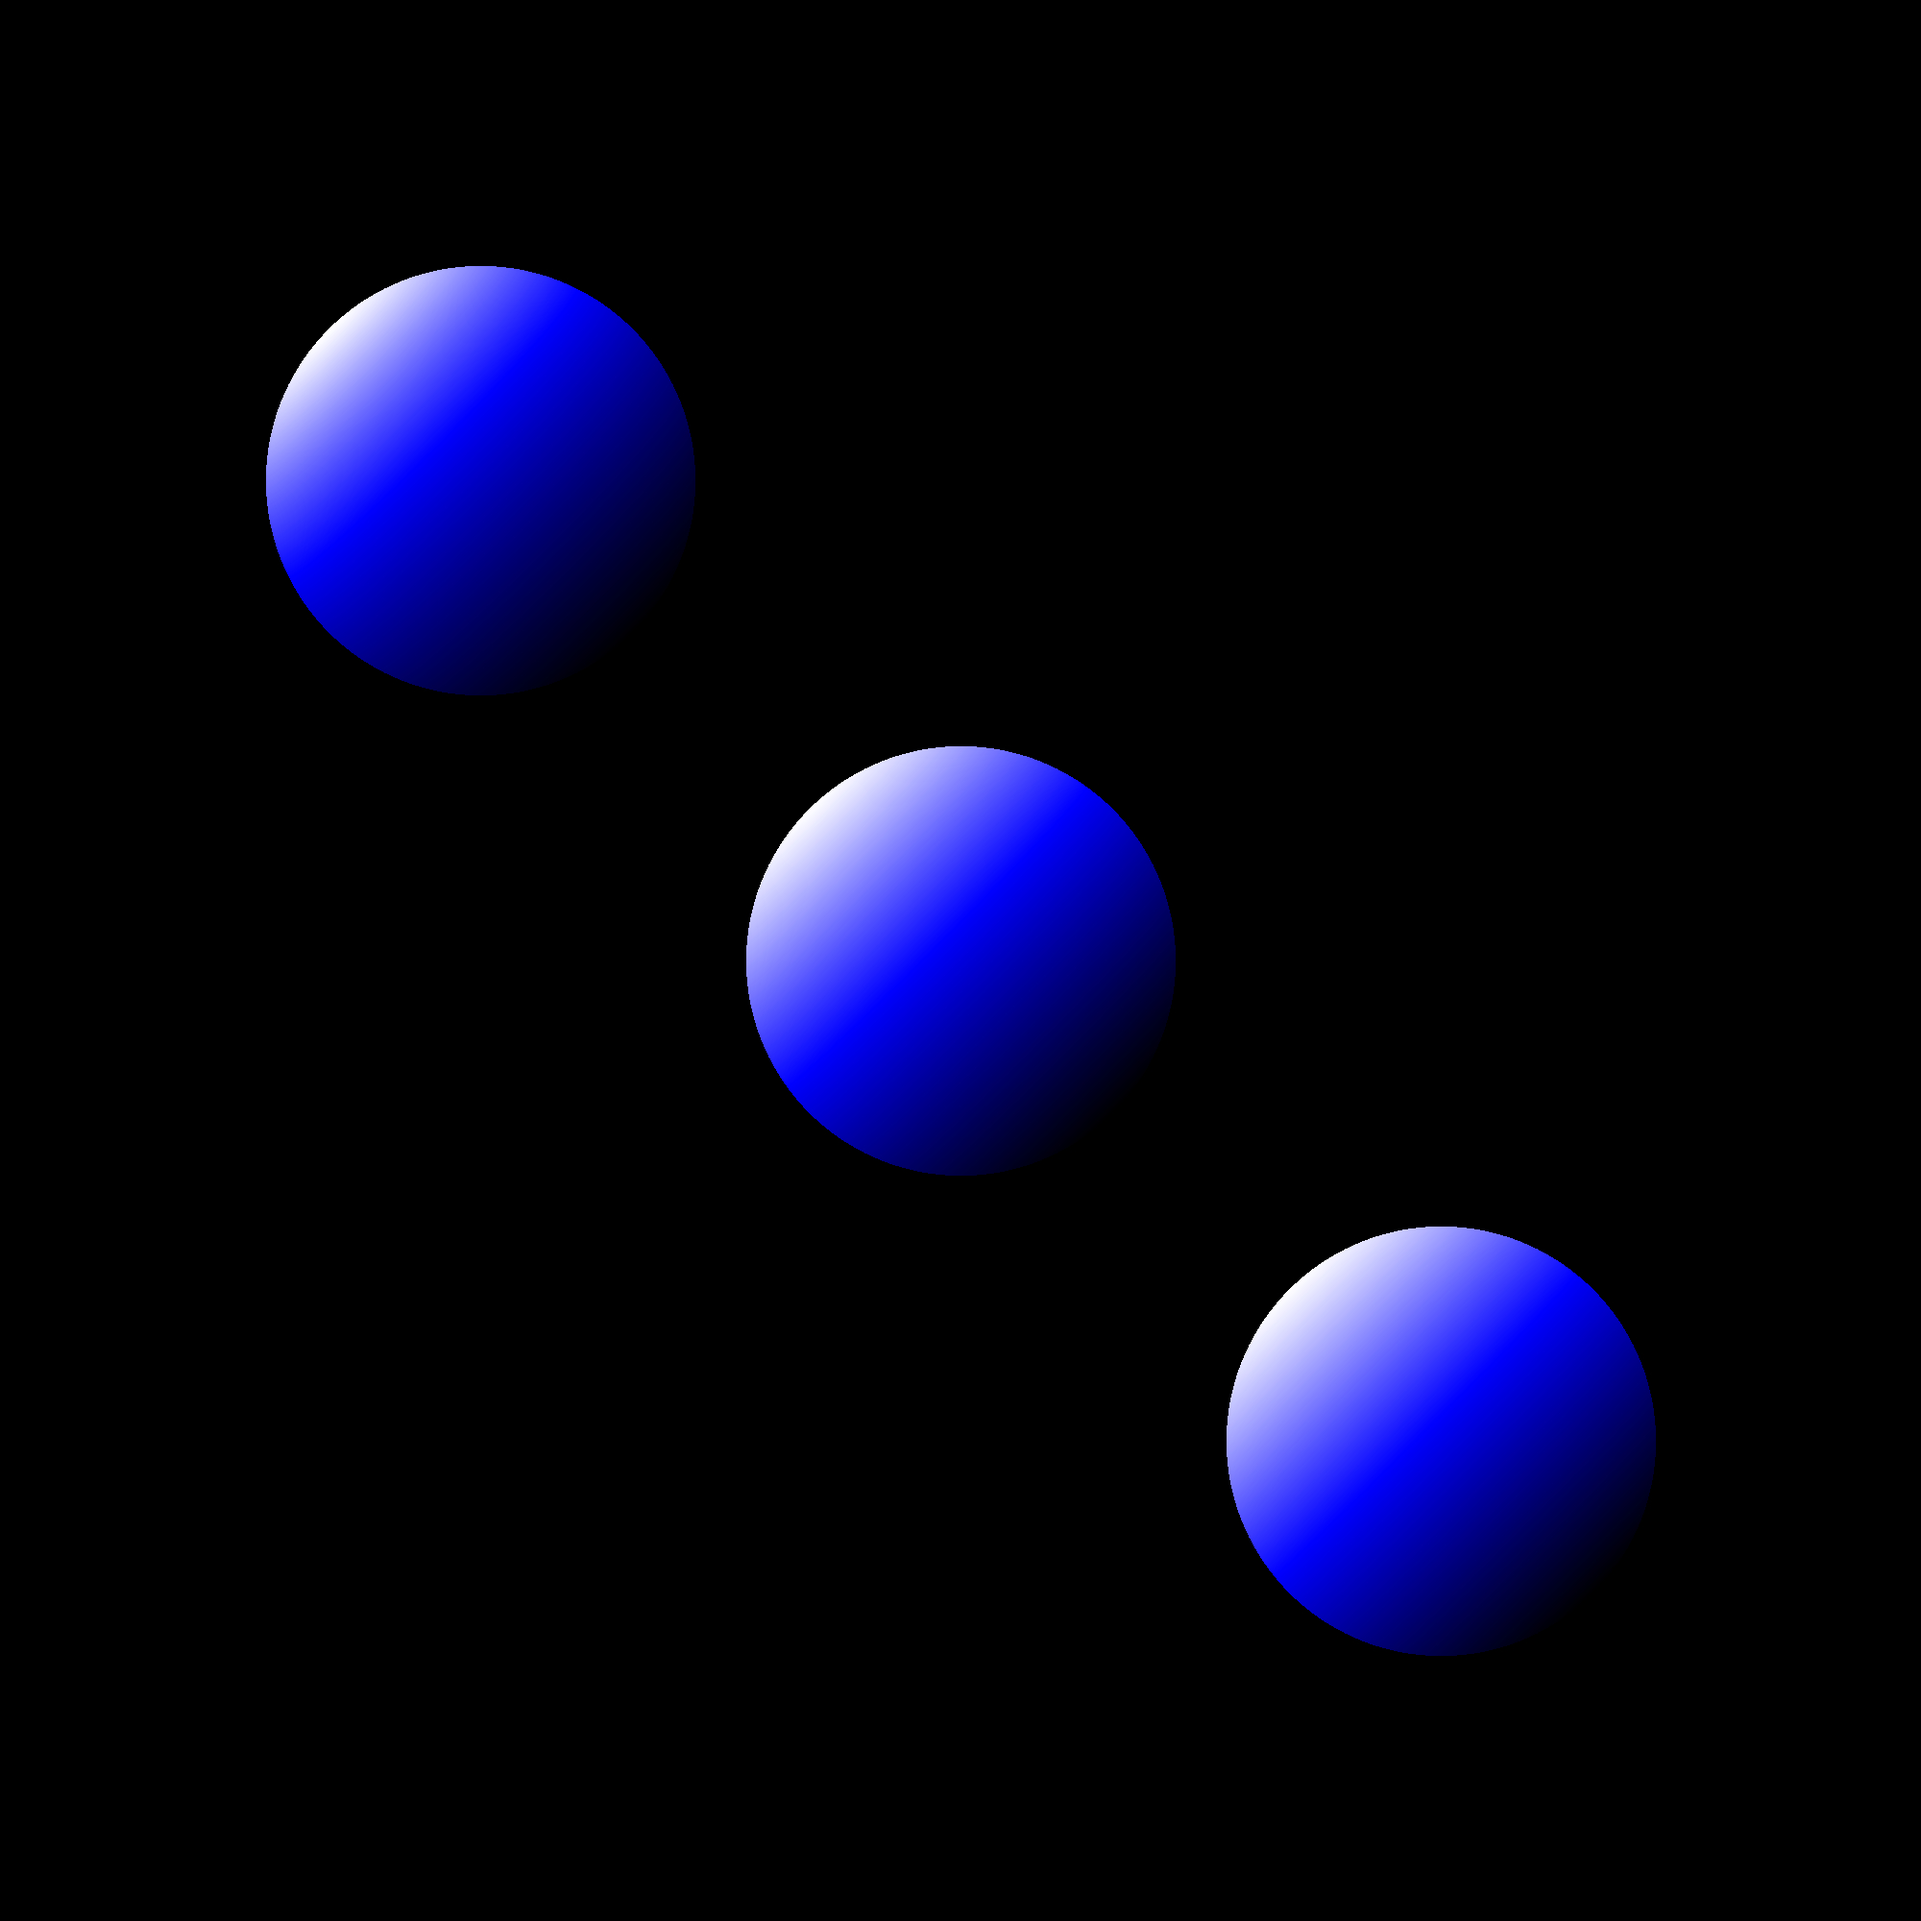
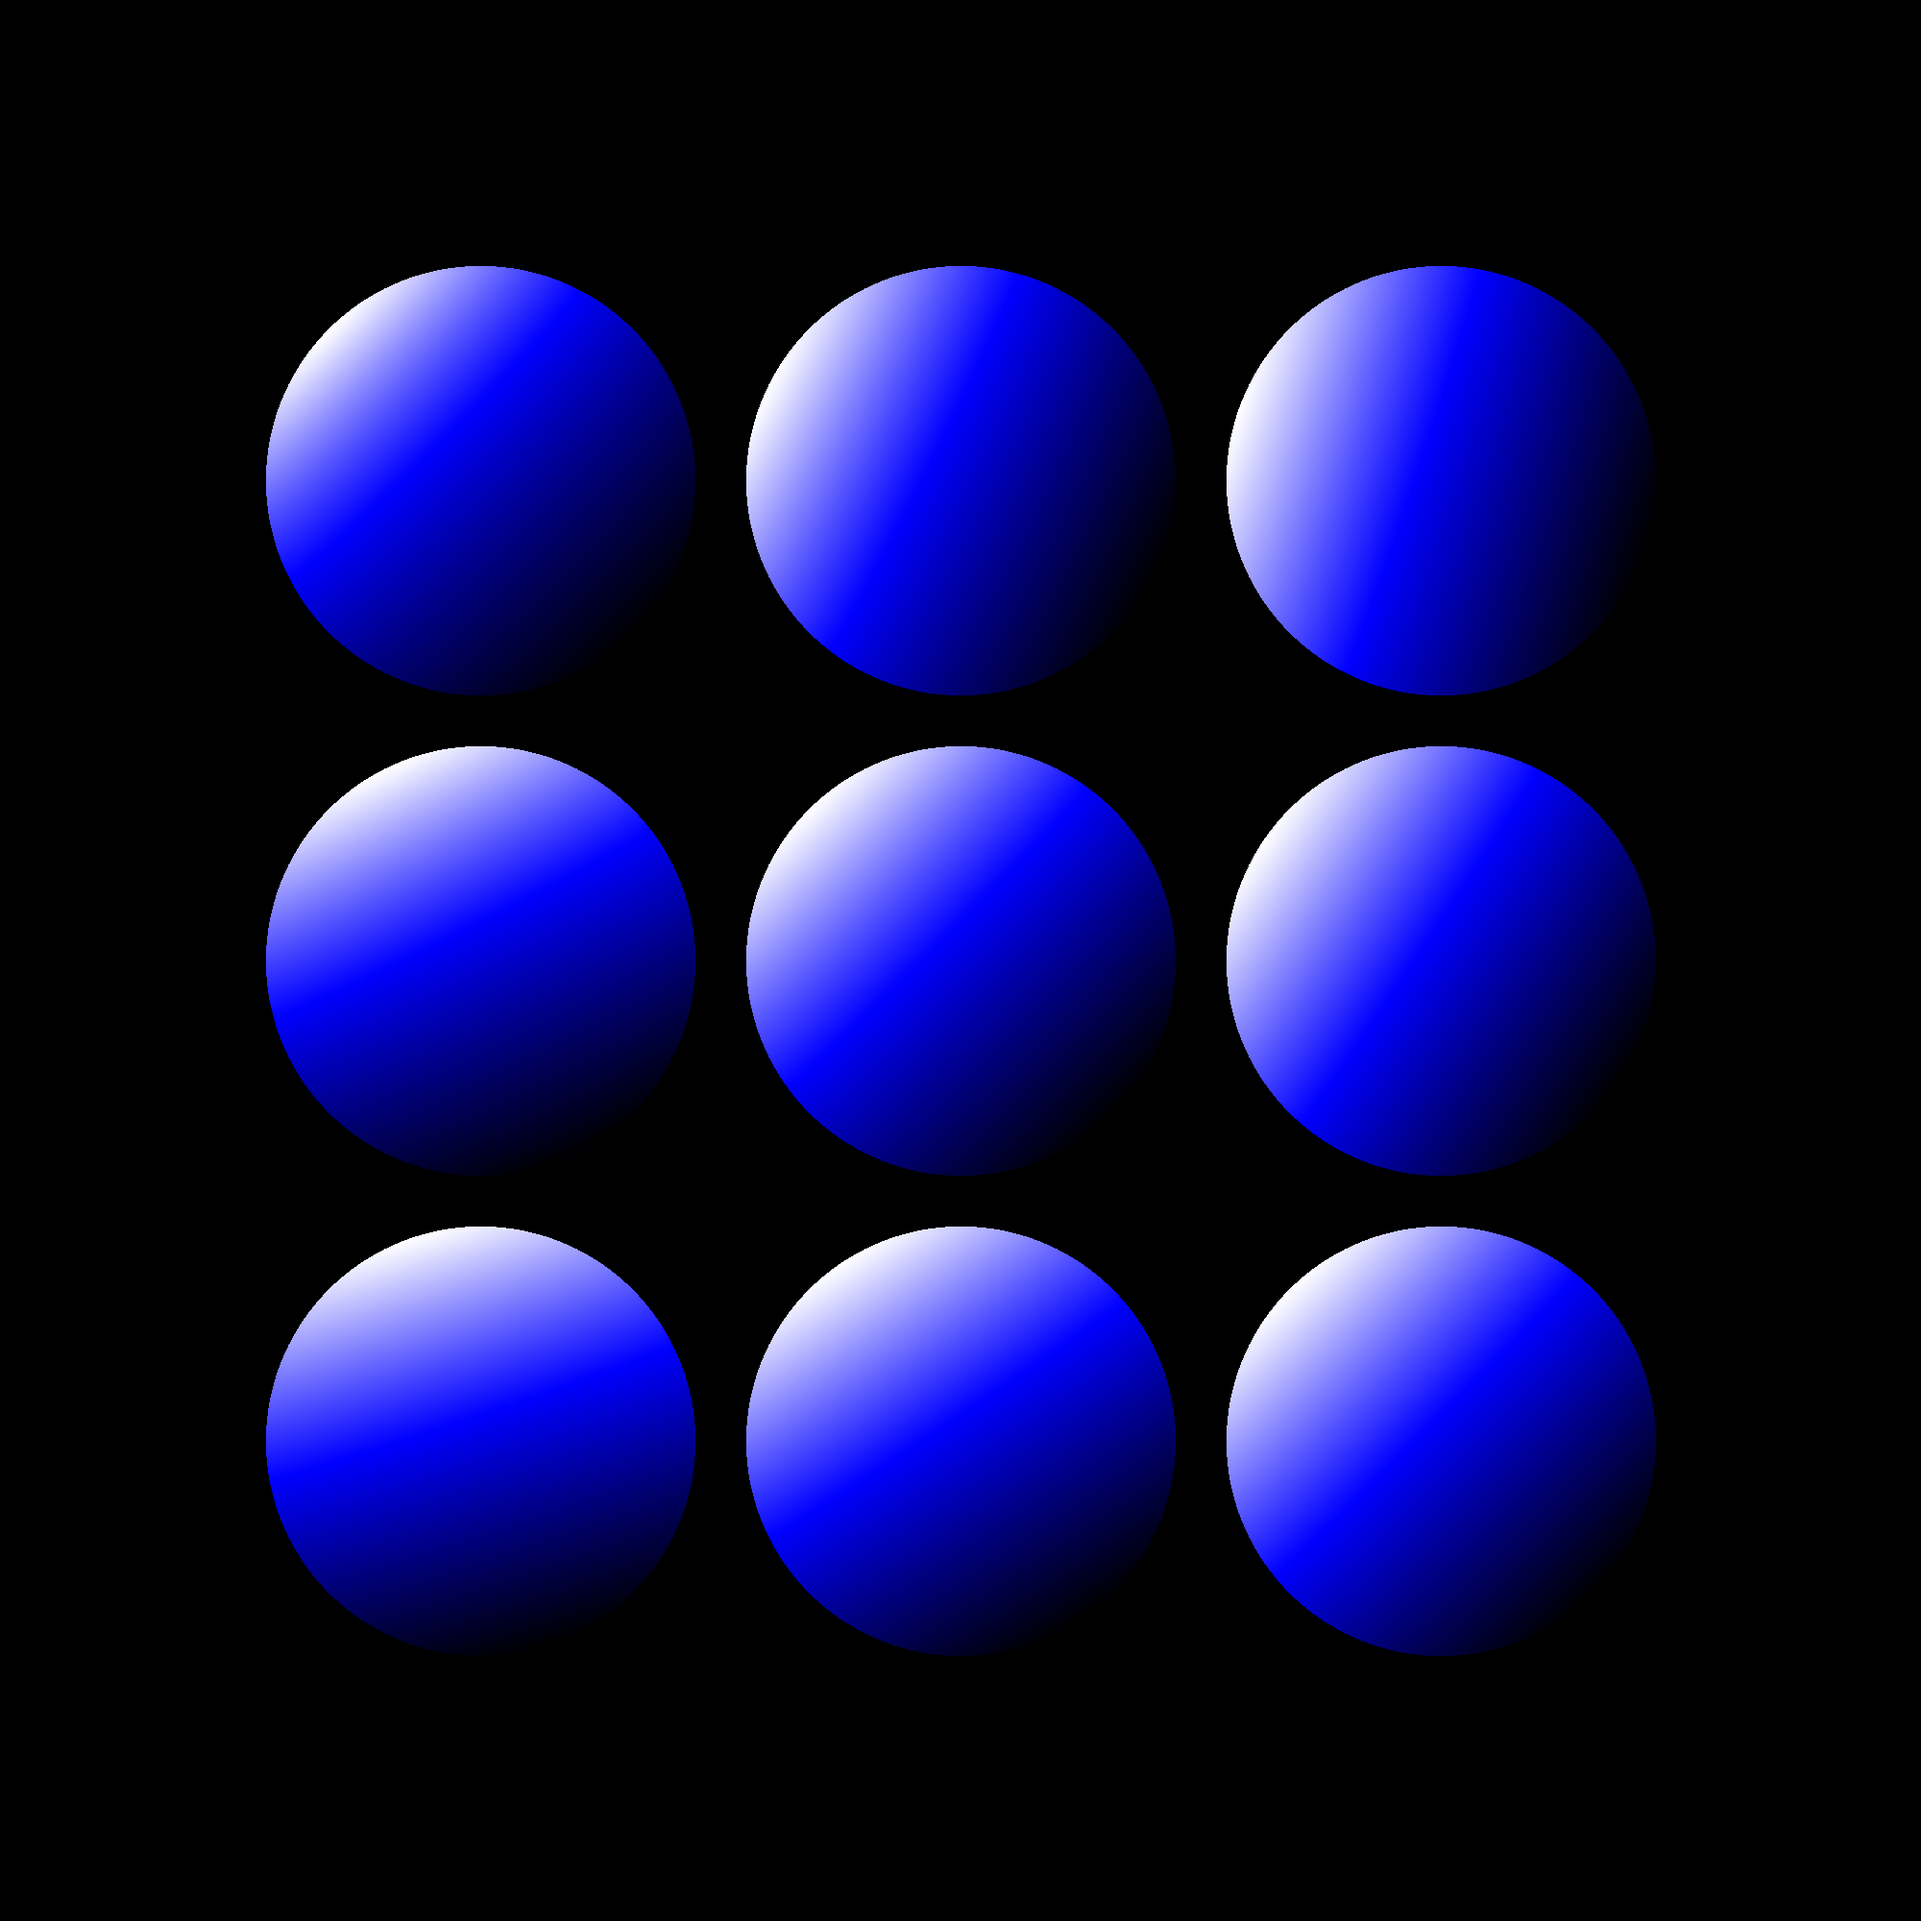
Updated spheres to showcase different lighting angles.

Changed region(s): [[0.372, 0.124, 0.868, 0.62], [0.124, 0.372, 0.62, 0.868]]

diff --git a/Sources/Includes/raytracer/raytracer.hpp b/Sources/Includes/raytracer/raytracer.hpp
@@ -24,7 +24,13 @@ namespace raytracer
 		return
 		{
 			{ geometry::spatial_vector< vector_type > { RADIUS, RADIUS, RADIUS / MULTIPLIER }, RADIUS * MULTIPLIER },
+			{ geometry::spatial_vector< vector_type > { RADIUS * 2, RADIUS, RADIUS / MULTIPLIER }, RADIUS * MULTIPLIER },
+			{ geometry::spatial_vector< vector_type > { RADIUS * 3, RADIUS, RADIUS / MULTIPLIER }, RADIUS * MULTIPLIER },
+			{ geometry::spatial_vector< vector_type > { RADIUS, RADIUS * 2, RADIUS / MULTIPLIER }, RADIUS * MULTIPLIER },
 			{ geometry::spatial_vector< vector_type > { RADIUS * 2, RADIUS * 2, RADIUS / MULTIPLIER }, RADIUS * MULTIPLIER },
+			{ geometry::spatial_vector< vector_type > { RADIUS * 3, RADIUS * 2, RADIUS / MULTIPLIER }, RADIUS * MULTIPLIER },
+			{ geometry::spatial_vector< vector_type > { RADIUS, RADIUS * 3, RADIUS / MULTIPLIER }, RADIUS * MULTIPLIER },
+			{ geometry::spatial_vector< vector_type > { RADIUS * 2, RADIUS * 3, RADIUS / MULTIPLIER }, RADIUS * MULTIPLIER },
 			{ geometry::spatial_vector< vector_type > { RADIUS * 3, RADIUS * 3, RADIUS / MULTIPLIER }, RADIUS * MULTIPLIER }
 		};
 	}
